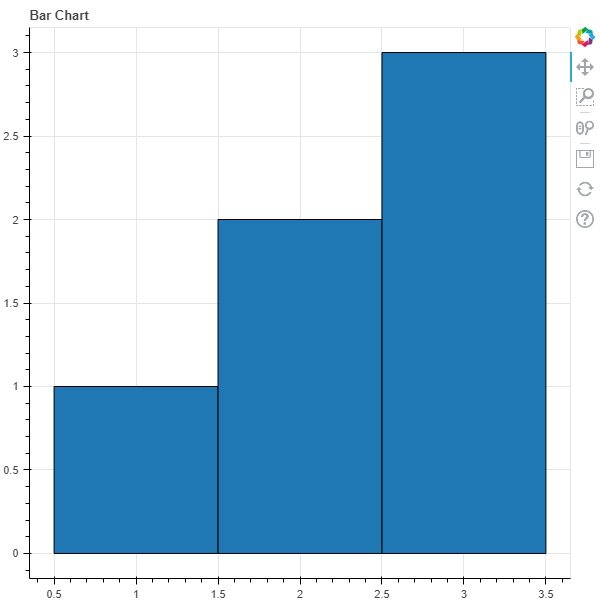
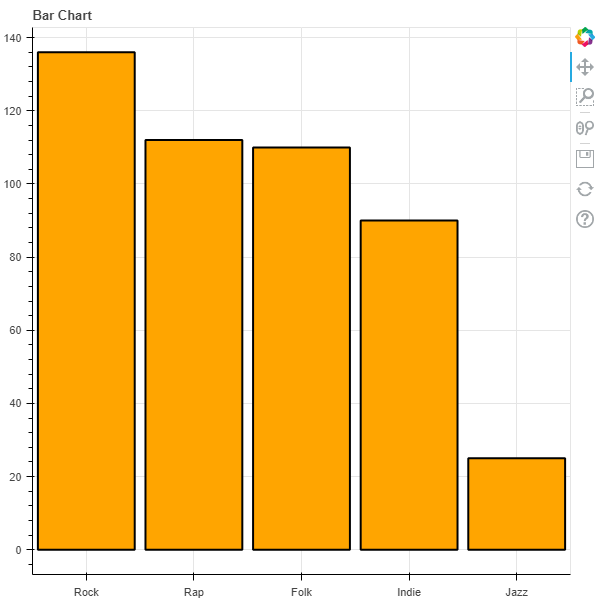
bokeh bar update for consistent data

diff --git a/project/graphics/examples/bokeh-bar.html b/project/graphics/examples/bokeh-bar.html
@@ -9,10 +9,10 @@
     </script>
   </head>
   <body>
-    <div class="bk-root" id="98ed3cd8-b942-49b9-88dd-72bc3e5fdd93" data-root-id="1002"></div>
+    <div class="bk-root" id="518b27b4-db5e-48d9-b6d6-def1bb15bb06" data-root-id="1002"></div>
   
-    <script type="application/json" id="1171">
-      {"0ff70392-8a58-47ba-8339-81872d3bbc10":{"defs":[],"roots":{"references":[{"attributes":{"coordinates":null,"group":null,"text":"Bar Chart"},"id":"1003","type":"Title"},{"attributes":{"axis":{"id":"1013"},"coordinates":null,"group":null,"ticker":null},"id":"1016","type":"Grid"},{"attributes":{},"id":"1026","type":"HelpTool"},{"attributes":{"coordinates":null,"formatter":{"id":"1046"},"group":null,"major_label_policy":{"id":"1047"},"ticker":{"id":"1014"}},"id":"1013","type":"LinearAxis"},{"attributes":{},"id":"1011","type":"LinearScale"},{"attributes":{},"id":"1044","type":"AllLabels"},{"attributes":{"axis":{"id":"1017"},"coordinates":null,"dimension":1,"group":null,"ticker":null},"id":"1020","type":"Grid"},{"attributes":{},"id":"1018","type":"BasicTicker"},{"attributes":{"data":{"top":[1,2,3],"x":[1,2,3]},"selected":{"id":"1049"},"selection_policy":{"id":"1048"}},"id":"1035","type":"ColumnDataSource"},{"attributes":{},"id":"1022","type":"WheelZoomTool"},{"attributes":{},"id":"1043","type":"BasicTickFormatter"},{"attributes":{},"id":"1021","type":"PanTool"},{"attributes":{"overlay":{"id":"1027"}},"id":"1023","type":"BoxZoomTool"},{"attributes":{},"id":"1024","type":"SaveTool"},{"attributes":{},"id":"1005","type":"DataRange1d"},{"attributes":{},"id":"1025","type":"ResetTool"},{"attributes":{"fill_alpha":{"value":0.2},"fill_color":{"value":"#1f77b4"},"hatch_alpha":{"value":0.2},"line_alpha":{"value":0.2},"top":{"field":"top"},"x":{"field":"x"}},"id":"1038","type":"VBar"},{"attributes":{"bottom_units":"screen","coordinates":null,"fill_alpha":0.5,"fill_color":"lightgrey","group":null,"left_units":"screen","level":"overlay","line_alpha":1.0,"line_color":"black","line_dash":[4,4],"line_width":2,"right_units":"screen","syncable":false,"top_units":"screen"},"id":"1027","type":"BoxAnnotation"},{"attributes":{},"id":"1009","type":"LinearScale"},{"attributes":{},"id":"1007","type":"DataRange1d"},{"attributes":{"tools":[{"id":"1021"},{"id":"1022"},{"id":"1023"},{"id":"1024"},{"id":"1025"},{"id":"1026"}]},"id":"1028","type":"Toolbar"},{"attributes":{},"id":"1046","type":"BasicTickFormatter"},{"attributes":{"coordinates":null,"data_source":{"id":"1035"},"glyph":{"id":"1036"},"group":null,"hover_glyph":null,"muted_glyph":{"id":"1038"},"nonselection_glyph":{"id":"1037"},"view":{"id":"1040"}},"id":"1039","type":"GlyphRenderer"},{"attributes":{"below":[{"id":"1013"}],"center":[{"id":"1016"},{"id":"1020"}],"left":[{"id":"1017"}],"renderers":[{"id":"1039"}],"title":{"id":"1003"},"toolbar":{"id":"1028"},"x_range":{"id":"1005"},"x_scale":{"id":"1009"},"y_range":{"id":"1007"},"y_scale":{"id":"1011"}},"id":"1002","subtype":"Figure","type":"Plot"},{"attributes":{"fill_alpha":{"value":0.1},"fill_color":{"value":"#1f77b4"},"hatch_alpha":{"value":0.1},"line_alpha":{"value":0.1},"top":{"field":"top"},"x":{"field":"x"}},"id":"1037","type":"VBar"},{"attributes":{},"id":"1047","type":"AllLabels"},{"attributes":{"source":{"id":"1035"}},"id":"1040","type":"CDSView"},{"attributes":{"coordinates":null,"formatter":{"id":"1043"},"group":null,"major_label_policy":{"id":"1044"},"ticker":{"id":"1018"}},"id":"1017","type":"LinearAxis"},{"attributes":{},"id":"1048","type":"UnionRenderers"},{"attributes":{},"id":"1014","type":"BasicTicker"},{"attributes":{},"id":"1049","type":"Selection"},{"attributes":{"fill_color":{"value":"#1f77b4"},"top":{"field":"top"},"x":{"field":"x"}},"id":"1036","type":"VBar"}],"root_ids":["1002"]},"title":"Bokeh Application","version":"2.4.3"}}
+    <script type="application/json" id="1170">
+      {"75c90829-3cdc-4dac-8dab-b91aea3b505c":{"defs":[],"roots":{"references":[{"attributes":{"tools":[{"id":"1020"},{"id":"1021"},{"id":"1022"},{"id":"1023"},{"id":"1024"},{"id":"1025"}]},"id":"1027","type":"Toolbar"},{"attributes":{},"id":"1025","type":"HelpTool"},{"attributes":{"fill_color":{"value":"orange"},"hatch_color":{"value":"orange"},"line_width":{"value":2},"top":{"field":"top"},"width":{"value":0.9},"x":{"field":"x"}},"id":"1035","type":"VBar"},{"attributes":{"data":{"top":[136,112,110,90,25],"x":["Rock","Rap","Folk","Indie","Jazz"]},"selected":{"id":"1048"},"selection_policy":{"id":"1047"}},"id":"1034","type":"ColumnDataSource"},{"attributes":{},"id":"1042","type":"BasicTickFormatter"},{"attributes":{"below":[{"id":"1013"}],"center":[{"id":"1015"},{"id":"1019"}],"left":[{"id":"1016"}],"renderers":[{"id":"1038"}],"title":{"id":"1003"},"toolbar":{"id":"1027"},"x_range":{"id":"1005"},"x_scale":{"id":"1009"},"y_range":{"id":"1007"},"y_scale":{"id":"1011"}},"id":"1002","subtype":"Figure","type":"Plot"},{"attributes":{},"id":"1046","type":"AllLabels"},{"attributes":{"coordinates":null,"group":null,"text":"Bar Chart"},"id":"1003","type":"Title"},{"attributes":{"fill_alpha":{"value":0.2},"fill_color":{"value":"orange"},"hatch_alpha":{"value":0.2},"hatch_color":{"value":"orange"},"line_alpha":{"value":0.2},"line_width":{"value":2},"top":{"field":"top"},"width":{"value":0.9},"x":{"field":"x"}},"id":"1037","type":"VBar"},{"attributes":{"fill_alpha":{"value":0.1},"fill_color":{"value":"orange"},"hatch_alpha":{"value":0.1},"hatch_color":{"value":"orange"},"line_alpha":{"value":0.1},"line_width":{"value":2},"top":{"field":"top"},"width":{"value":0.9},"x":{"field":"x"}},"id":"1036","type":"VBar"},{"attributes":{},"id":"1043","type":"AllLabels"},{"attributes":{},"id":"1009","type":"CategoricalScale"},{"attributes":{"coordinates":null,"formatter":{"id":"1045"},"group":null,"major_label_policy":{"id":"1046"},"ticker":{"id":"1014"}},"id":"1013","type":"CategoricalAxis"},{"attributes":{},"id":"1014","type":"CategoricalTicker"},{"attributes":{},"id":"1007","type":"DataRange1d"},{"attributes":{"source":{"id":"1034"}},"id":"1039","type":"CDSView"},{"attributes":{},"id":"1011","type":"LinearScale"},{"attributes":{"coordinates":null,"formatter":{"id":"1042"},"group":null,"major_label_policy":{"id":"1043"},"ticker":{"id":"1017"}},"id":"1016","type":"LinearAxis"},{"attributes":{"axis":{"id":"1013"},"coordinates":null,"group":null,"ticker":null},"id":"1015","type":"Grid"},{"attributes":{},"id":"1047","type":"UnionRenderers"},{"attributes":{},"id":"1048","type":"Selection"},{"attributes":{"axis":{"id":"1016"},"coordinates":null,"dimension":1,"group":null,"ticker":null},"id":"1019","type":"Grid"},{"attributes":{},"id":"1017","type":"BasicTicker"},{"attributes":{},"id":"1021","type":"WheelZoomTool"},{"attributes":{},"id":"1020","type":"PanTool"},{"attributes":{"overlay":{"id":"1026"}},"id":"1022","type":"BoxZoomTool"},{"attributes":{"coordinates":null,"data_source":{"id":"1034"},"glyph":{"id":"1035"},"group":null,"hover_glyph":null,"muted_glyph":{"id":"1037"},"nonselection_glyph":{"id":"1036"},"view":{"id":"1039"}},"id":"1038","type":"GlyphRenderer"},{"attributes":{},"id":"1023","type":"SaveTool"},{"attributes":{},"id":"1024","type":"ResetTool"},{"attributes":{"bottom_units":"screen","coordinates":null,"fill_alpha":0.5,"fill_color":"lightgrey","group":null,"left_units":"screen","level":"overlay","line_alpha":1.0,"line_color":"black","line_dash":[4,4],"line_width":2,"right_units":"screen","syncable":false,"top_units":"screen"},"id":"1026","type":"BoxAnnotation"},{"attributes":{"factors":["Rock","Rap","Folk","Indie","Jazz"]},"id":"1005","type":"FactorRange"},{"attributes":{},"id":"1045","type":"CategoricalTickFormatter"}],"root_ids":["1002"]},"title":"Bokeh Application","version":"2.4.3"}}
     </script>
     <script type="text/javascript">
       (function() {
@@ -20,8 +20,8 @@
           Bokeh.safely(function() {
             (function(root) {
               function embed_document(root) {
-              const docs_json = document.getElementById('1171').textContent;
-              const render_items = [{"docid":"0ff70392-8a58-47ba-8339-81872d3bbc10","root_ids":["1002"],"roots":{"1002":"98ed3cd8-b942-49b9-88dd-72bc3e5fdd93"}}];
+              const docs_json = document.getElementById('1170').textContent;
+              const render_items = [{"docid":"75c90829-3cdc-4dac-8dab-b91aea3b505c","root_ids":["1002"],"roots":{"1002":"518b27b4-db5e-48d9-b6d6-def1bb15bb06"}}];
               root.Bokeh.embed.embed_items(docs_json, render_items);
               }
               if (root.Bokeh !== undefined) {

diff --git a/project/graphics/examples/bokeh-bar.py b/project/graphics/examples/bokeh-bar.py
@@ -3,14 +3,31 @@ from bokeh.plotting import figure
 from selenium import webdriver
 import chromedriver_binary
 
-p = figure(title="Bar Chart")
 
-# The line_width parameter sets the width of the line plot.
-x = [1,2,3]
-y = [1,2,3]
-p.vbar(x, top = y, line_color = 'black')
+data = {'Rock': 136, 'Rap': 112, 'Folk': 110, 'Indie': 90, 'Jazz': 25}
+x = list(data.keys())
+y = list(data.values())
+z = [1,2,3]
 
-#show(p)
+p = figure(x_range = x, title="Bar Chart")
+
+print(type(x))
+print(type(y))
+print(type(z))
+print(x)
+print(y)
+print(z)
+
+p.vbar(x=x, top = y, line_color = 'black',color='orange',
+    width = 0.9,
+    line_width = 2
+       )
+
+
+
+show(p)
 
 export_png(p, filename="images/bokeh-bar.png")
 export_svg(p, filename="images/bokeh-bar.svg")
+
+

diff --git a/project/graphics/examples/pandas-barchart.py b/project/graphics/examples/pandas-barchart.py
@@ -18,6 +18,8 @@ print(df.head())
 
 # Creating the bar chart
 df.plot.bar(
+        x='Categories',
+        y='Count',
         align='center',
         color='orange',
         width=0.9,
